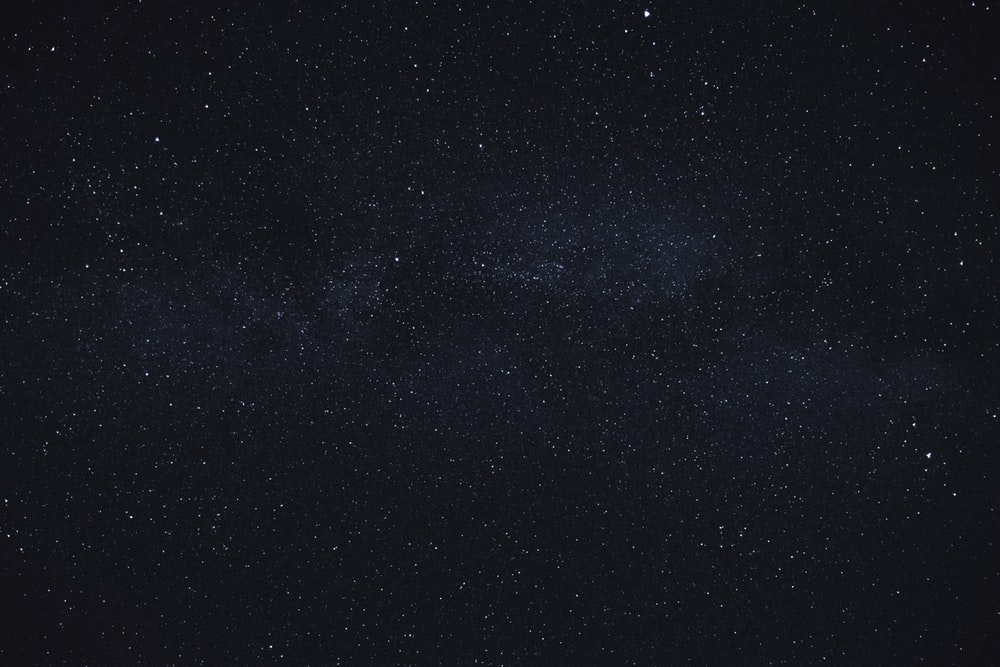
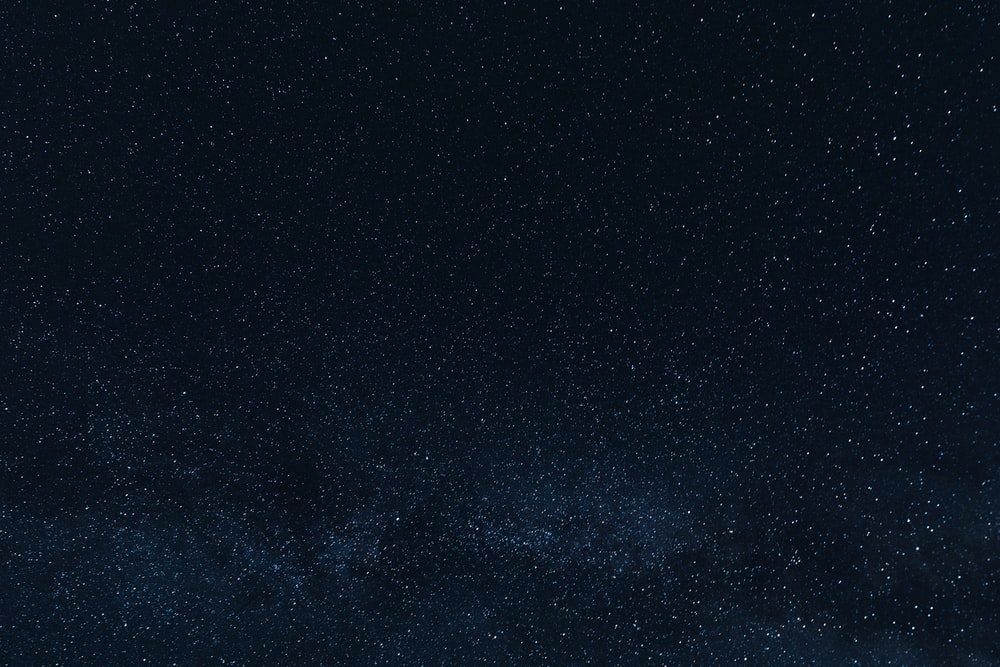
new background

diff --git a/src/App.scss b/src/App.scss
@@ -2,6 +2,10 @@
   height: 100vh;
   width: 100vw;
   margin: 0;
+  background-image: url("/assets/background.jpg");
+  background-repeat: no-repeat;
+  background-attachment: fixed;
+  background-size: 100% 100%;
   font-family: "Source Code Pro", monospace;
   font-weight: 600;
   overflow: hidden;
@@ -198,102 +202,5 @@
     .carousel-control-next {
       top: -20%;
     }
-  }
-  @keyframes move-twink-back {
-    from {
-      background-position: 0 0;
-    }
-    to {
-      background-position: -10000px 5000px;
-    }
-  }
-  @-webkit-keyframes move-twink-back {
-    from {
-      background-position: 0 0;
-    }
-    to {
-      background-position: -10000px 5000px;
-    }
-  }
-  @-moz-keyframes move-twink-back {
-    from {
-      background-position: 0 0;
-    }
-    to {
-      background-position: -10000px 5000px;
-    }
-  }
-  @-ms-keyframes move-twink-back {
-    from {
-      background-position: 0 0;
-    }
-    to {
-      background-position: -10000px 5000px;
-    }
-  }
-
-  @keyframes move-clouds-back {
-    from {
-      background-position: 0 0;
-    }
-    to {
-      background-position: 10000px 0;
-    }
-  }
-  @-webkit-keyframes move-clouds-back {
-    from {
-      background-position: 0 0;
-    }
-    to {
-      background-position: 10000px 0;
-    }
-  }
-  @-moz-keyframes move-clouds-back {
-    from {
-      background-position: 0 0;
-    }
-    to {
-      background-position: 10000px 0;
-    }
-  }
-  @-ms-keyframes move-clouds-back {
-    from {
-      background-position: 0;
-    }
-    to {
-      background-position: 10000px 0;
-    }
-  }
-
-  .stars,
-  .twinkling {
-    position: absolute;
-    top: 0;
-    left: 0;
-    right: 0;
-    bottom: 0;
-    width: 100%;
-    height: 100%;
-    display: block;
-  }
-
-  .stars {
-    background: #000
-      url(http://www.script-tutorials.com/demos/360/images/stars.png) repeat top
-      center;
-    z-index: 0;
-  }
-
-  .twinkling {
-    background: transparent
-      url(http://www.script-tutorials.com/demos/360/images/twinkling.png) repeat
-      top center;
-    z-index: 1;
-
-    -moz-animation: move-twink-back 200s linear infinite;
-    -ms-animation: move-twink-back 200s linear infinite;
-    -o-animation: move-twink-back 200s linear infinite;
-    -webkit-animation: move-twink-back 200s linear infinite;
-    animation: move-twink-back 200s linear infinite;
   }
 }
